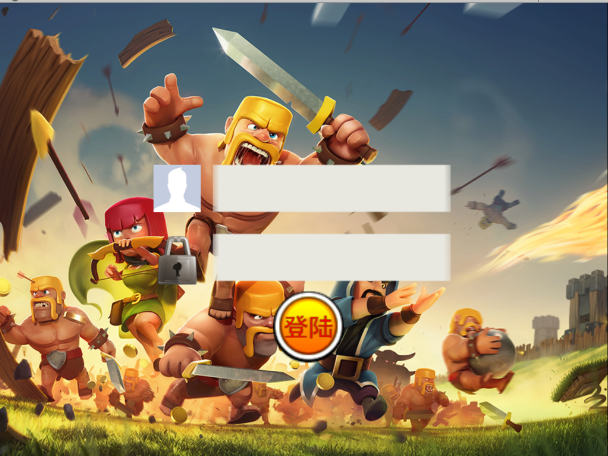
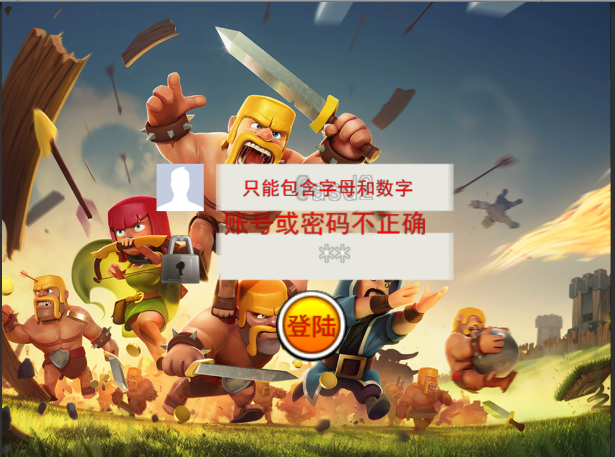
Site updated: 2016-08-30 20:56:32

diff --git a/2016/08/21/Classical-2D-Game-Unity-NGUI/index.html b/2016/08/21/Classical-2D-Game-Unity-NGUI/index.html
@@ -69,7 +69,7 @@ Prepa">
 <meta property="og:image" content="http://tonytang1990.github.io/img/Unity/GameSetting2.PNG">
 <meta property="og:image" content="http://tonytang1990.github.io/img/Unity/GameSetting3.PNG">
 <meta property="og:image" content="http://tonytang1990.github.io/img/Unity/CarDodgeGame.PNG">
-<meta property="og:updated_time" content="2016-08-30T12:43:38.327Z">
+<meta property="og:updated_time" content="2016-08-30T12:56:04.126Z">
 <meta name="twitter:card" content="summary">
 <meta name="twitter:title" content="Classical 2D Game(Unity & NGUI)">
 <meta name="twitter:description" content="Introduction这一章节主要是为了实战学习Unity和NGUI的使用而写的。
@@ -274,7 +274,7 @@ Prepa">
 <p>通过调节给出的public变量，可控制movetween的duration时间和coroutine的执行时间间隔，还有垂直和水平方向的移动位移等。</p>
 <h5 id="游戏内GameObject数量的思考">游戏内GameObject数量的思考</h5><p>因为2D赛车躲避小游戏同一时间不会有太多的GameObject处于场景里，通过<a href="http://tonytang1990.github.io/2016/03/13/Unity-COC-Study/#Optimization">Unity_COC_Study</a>的学习，我知道了我们可以通过Object Pool的方式来预创建一定数量的GameObject，然后在适当的时机active or deactive他们来减少Instantiate的调用，即节约内存又性能损耗低。<br>ObjectPoolManager .cs<br><figure class="highlight cs"><table><tr><td class="gutter"><pre><span class="line">1</span><br><span class="line">2</span><br><span class="line">3</span><br><span class="line">4</span><br><span class="line">5</span><br><span class="line">6</span><br><span class="line">7</span><br><span class="line">8</span><br><span class="line">9</span><br><span class="line">10</span><br><span class="line">11</span><br><span class="line">12</span><br><span class="line">13</span><br><span class="line">14</span><br><span class="line">15</span><br><span class="line">16</span><br><span class="line">17</span><br><span class="line">18</span><br><span class="line">19</span><br><span class="line">20</span><br><span class="line">21</span><br><span class="line">22</span><br><span class="line">23</span><br><span class="line">24</span><br><span class="line">25</span><br><span class="line">26</span><br><span class="line">27</span><br><span class="line">28</span><br><span class="line">29</span><br><span class="line">30</span><br><span class="line">31</span><br><span class="line">32</span><br><span class="line">33</span><br><span class="line">34</span><br><span class="line">35</span><br><span class="line">36</span><br><span class="line">37</span><br><span class="line">38</span><br><span class="line">39</span><br><span class="line">40</span><br><span class="line">41</span><br><span class="line">42</span><br><span class="line">43</span><br><span class="line">44</span><br><span class="line">45</span><br><span class="line">46</span><br><span class="line">47</span><br><span class="line">48</span><br><span class="line">49</span><br><span class="line">50</span><br><span class="line">51</span><br><span class="line">52</span><br><span class="line">53</span><br><span class="line">54</span><br><span class="line">55</span><br><span class="line">56</span><br><span class="line">57</span><br><span class="line">58</span><br><span class="line">59</span><br><span class="line">60</span><br><span class="line">61</span><br><span class="line">62</span><br><span class="line">63</span><br><span class="line">64</span><br><span class="line">65</span><br><span class="line">66</span><br></pre></td><td class="code"><pre><span class="line"><span class="keyword">using</span> UnityEngine;</span><br><span class="line"><span class="keyword">using</span> System.Collections;</span><br><span class="line"><span class="keyword">using</span> System.Collections.Generic;</span><br><span class="line"></span><br><span class="line"><span class="keyword">public</span> <span class="keyword">class</span> <span class="title">ObjectPoolManager</span> : <span class="title">MonoBehaviour</span></span><br><span class="line">&#123;</span><br><span class="line">    <span class="keyword">public</span> <span class="keyword">static</span> ObjectPoolManager mObjectPoolManagerInstance = <span class="keyword">null</span>;</span><br><span class="line"></span><br><span class="line">    <span class="keyword">public</span> GameObject[] mEnemyCar;</span><br><span class="line"></span><br><span class="line">    <span class="keyword">public</span> <span class="keyword">int</span> mAmountForEachEnemyCar = <span class="number">4</span>;</span><br><span class="line"></span><br><span class="line">    <span class="keyword">private</span> List&lt;List&lt;GameObject&gt;&gt; mEnemyCarTwoDimensionList;</span><br><span class="line"></span><br><span class="line">    <span class="keyword">public</span> <span class="keyword">bool</span> mWillGrow = <span class="keyword">true</span>;</span><br><span class="line"></span><br><span class="line">    <span class="function"><span class="keyword">void</span> <span class="title">Awake</span>(<span class="params"></span>)</span><br><span class="line">    </span>&#123;</span><br><span class="line">        <span class="keyword">if</span> (mObjectPoolManagerInstance == <span class="keyword">null</span>)</span><br><span class="line">        &#123;</span><br><span class="line">            mObjectPoolManagerInstance = <span class="keyword">this</span>;</span><br><span class="line">        &#125;</span><br><span class="line">        <span class="function"><span class="keyword">else</span> <span class="title">if</span> (<span class="params">mObjectPoolManagerInstance != <span class="keyword">this</span></span>)</span><br><span class="line">        </span>&#123;</span><br><span class="line">            Destroy(gameObject);</span><br><span class="line">        &#125;</span><br><span class="line">    &#125;</span><br><span class="line"></span><br><span class="line">    <span class="function"><span class="keyword">void</span> <span class="title">Start</span>(<span class="params"></span>)</span><br><span class="line">    </span>&#123;</span><br><span class="line">        mEnemyCarTwoDimensionList = <span class="keyword">new</span> List&lt;List&lt;GameObject&gt;&gt;();</span><br><span class="line"></span><br><span class="line">        <span class="keyword">for</span> (<span class="keyword">int</span> i = <span class="number">0</span>; i &lt; mEnemyCar.Length; i++)</span><br><span class="line">        &#123; </span><br><span class="line">            List&lt;GameObject&gt; enemycarlist = <span class="keyword">new</span> List&lt;GameObject&gt;(mAmountForEachEnemyCar);</span><br><span class="line">            <span class="keyword">for</span>(<span class="keyword">int</span> j = <span class="number">0</span>; j &lt; mAmountForEachEnemyCar; j++)</span><br><span class="line">            &#123;</span><br><span class="line">                GameObject enemycarobj = Instantiate(mEnemyCar[i]) <span class="keyword">as</span> GameObject;</span><br><span class="line">                enemycarobj.SetActive(<span class="keyword">false</span>);</span><br><span class="line">                enemycarlist.Add(enemycarobj);</span><br><span class="line">            &#125;</span><br><span class="line">            mEnemyCarTwoDimensionList.Add(enemycarlist);</span><br><span class="line">        &#125;</span><br><span class="line">    &#125;</span><br><span class="line"></span><br><span class="line">    <span class="function"><span class="keyword">public</span> GameObject <span class="title">GetEnemyCarObject</span>(<span class="params"><span class="keyword">int</span> carindex</span>)</span><br><span class="line">    </span>&#123;</span><br><span class="line">        <span class="keyword">for</span> (<span class="keyword">int</span> i = <span class="number">0</span>; i &lt; mEnemyCarTwoDimensionList[carindex].Count; i++)</span><br><span class="line">        &#123;</span><br><span class="line">            <span class="keyword">if</span> (!mEnemyCarTwoDimensionList[carindex][i].activeInHierarchy)</span><br><span class="line">            &#123;</span><br><span class="line">                mEnemyCarTwoDimensionList[carindex][i].SetActive(<span class="keyword">true</span>);</span><br><span class="line">                <span class="keyword">return</span> mEnemyCarTwoDimensionList[carindex][i];</span><br><span class="line">            &#125;</span><br><span class="line">        &#125;</span><br><span class="line"></span><br><span class="line">        <span class="keyword">if</span> (mWillGrow)</span><br><span class="line">        &#123;</span><br><span class="line">            GameObject enemycar = Instantiate(mEnemyCar[carindex]) <span class="keyword">as</span> GameObject;</span><br><span class="line">            mEnemyCarTwoDimensionList[carindex].Add(enemycar);</span><br><span class="line">            <span class="keyword">return</span> enemycar;</span><br><span class="line">        &#125;</span><br><span class="line"></span><br><span class="line">        <span class="keyword">return</span> <span class="keyword">null</span>;</span><br><span class="line">    &#125;</span><br><span class="line">&#125;</span><br></pre></td></tr></table></figure></p>
 <p>上述代码写的比较死，是针对CarDodge这个游戏而言，因为有多种车子，所以用到了List<list<gameobject>&gt;这样的双重List来存储对应车子所与生成的GameObject。</list<gameobject></p>
-<p>最终游戏截图(大部分游戏UI素材选至COC)：<br><img src="/img/Unity/LoginUI.PNG" alt="LoginUI"><br><img src="/img/Unity/LoadingUI.PNG" alt="LoadingUI"><br><img src="/img/Unity/GameSetting1.PNG" alt="GameSetting1"><br><img src="/img/Unity/GameSetting2.PNG" alt="GameSetting2"><br><img src="/img/Unity/GameSetting3.PNG" alt="GameSetting3"><br><img src="/img/Unity/CarDodgeGame.PNG" alt="CarDodgeGame"></p>
+<p>最终游戏截图(大部分游戏UI素材选至COC)：<br><img src="/img/Unity/LoginUI.PNG" alt="LoginUI"><br>出于是学习使用旧版的NGUI，所以上述UI并没有实际的登陆检查，只实现了简单的输入文字要求和账号对错(账号暂时是硬代码写的，PC上是通过读取Excel，真机对应功能还没做)检查。<br><img src="/img/Unity/LoadingUI.PNG" alt="LoadingUI"><br>这一个主要是尝试Scroll Bar<br><img src="/img/Unity/GameSetting1.PNG" alt="GameSetting1"><br><img src="/img/Unity/GameSetting2.PNG" alt="GameSetting2"><br><img src="/img/Unity/GameSetting3.PNG" alt="GameSetting3"><br>这三个主要是尝试UIBUtton，UIPopupList，UIISlider，UIDraggable Panel的使用和TweenPosition制作简单UI动画(包含了对背景音乐和音量的设置功能，存储采取PlayerPrefs写入程序文件)。<br><img src="/img/Unity/CarDodgeGame.PNG" alt="CarDodgeGame"><br>最后这一个是本章2D赛车躲避的最终游戏截图，主要实现了赛车跳跃，前后左右移动，随着赛车数量躲避增加游戏速度增加，限制了移动范围。</p>
 <h3 id="贪吃蛇">贪吃蛇</h3><h2 id="问题记录">问题记录</h2><ol>
 <li>编译打包XCode项目出问题<br>Failed to Copy File / Directory from ‘**\Unity\Editor\Data\Tools/MapFileParser/MapFileParser’ to ‘Temp/StagingArea\Trampoline\MapFileParser’.<br>这是Unity 5.1版本的一个bug。<br><a href="http://answers.unity3d.com/questions/990499/error-building-player-ioexception-failed-to-copy.html" target="_blank" rel="external">解决方案</a><br>修改.\Unity\Editor\Data\Tools\MapFileParser\MapFileParser.exe到MapFileParser然后打包XCode项目，然后在XCode项目里把MapFileParser改回MapFileParser.exe<br>或者使用新版本Unity</li>
 <li>编译打包XCode项目时库找不到的问题<br>ArgumentException: The Assembly System.Configuration is referenced by System.Data. But the dll is not allowed to be included or could not be found.<br><a href="http://answers.unity3d.com/questions/485085/dll-is-not-allowed-to-be-included-or-could-not-be.html" target="_blank" rel="external">解决方案</a><br>Change it from .NET sub 2.0 to .NET</li>
